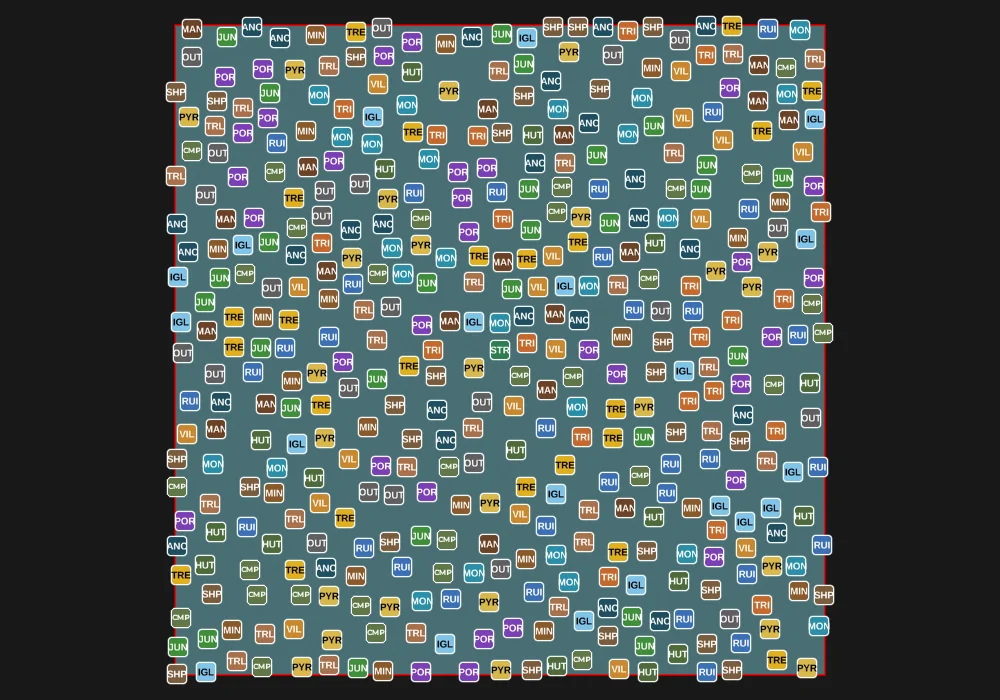
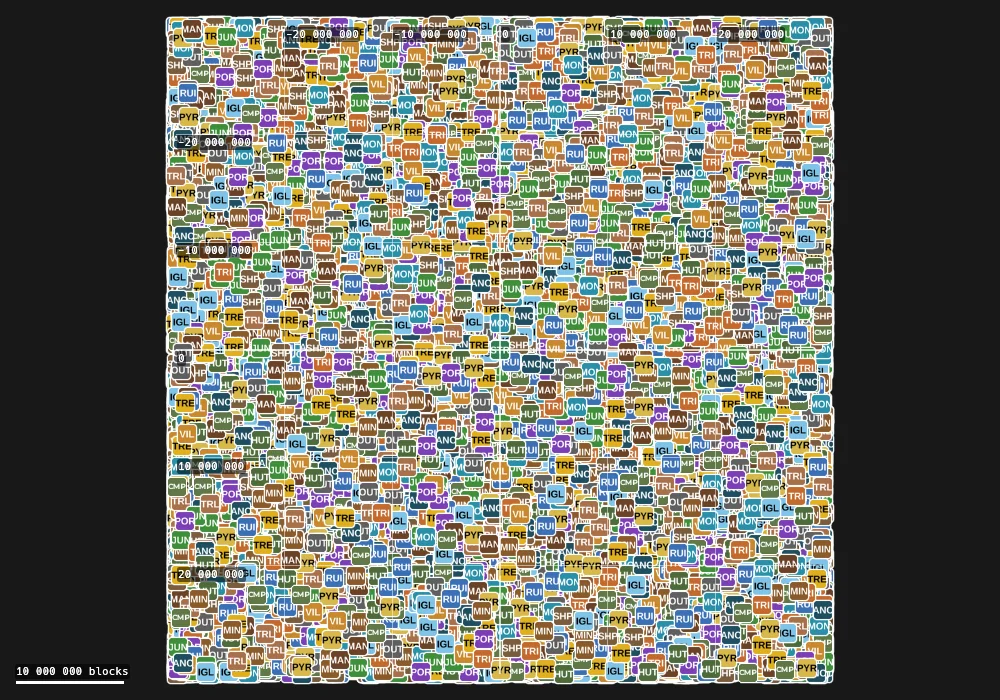
grid can be drawn over markers, samples in advanced, readme images and wording

diff --git a/src/gui/mod.rs b/src/gui/mod.rs
@@ -494,6 +494,7 @@ impl State {
                 Command::ZoomButtons(on) => ui.zoom_buttons_shown = on,
                 Command::ClearSearch => ui.queries.clear_search(),
                 Command::Grid(on) => ui.grid.enabled = on,
+                Command::GridOverMarkers(on) => ui.grid.over_markers = on,
                 Command::Search(what) => ui.script_search(&what),
                 _ => {}
             }
@@ -842,96 +843,105 @@ impl Ui {
             .default_open(!narrow)
             .default_pos(egui::pos2(8.0, 8.0))
             .max_width((screen.x - 16.0).min(360.0))
-            .show(root.ctx(), |ui| egui::ScrollArea::vertical().max_height(screen.y - 60.0).show(ui, |ui| {
-            egui::Grid::new("settings").num_columns(2).show(ui, |ui| {
-                ui.label("Seed").on_hover_text("A number, negative too, or any text like in Minecraft");
-                if ui.text_edit_singleline(&mut self.seed_text).changed()
-                    && let Some(seed) = parse_seed(&self.seed_text)
-                    && seed != self.seed
-                {
-                    self.seed = seed;
-                    self.biome_source = Arc::new(self.dimension.biome_source(seed));
-                    changed = true;
-                }
-                ui.end_row();
-                // text seeds become a number, show which
-                if self.seed_text.trim() != self.seed.to_string() {
-                    ui.label("");
-                    ui.weak(format!("= {}", self.seed));
-                    ui.end_row();
-                }
-
-                ui.label("Dimension");
-                egui::ComboBox::from_id_salt("dimension").selected_text(self.dimension.name()).show_ui(ui, |ui| {
-                    for dimension in Dimension::ALL {
-                        if ui.selectable_label(dimension == self.dimension, dimension.name()).clicked() && dimension != self.dimension {
-                            new_dimension = Some(dimension);
+            .show(root.ctx(), |ui| {
+                egui::ScrollArea::vertical().max_height(screen.y - 60.0).show(ui, |ui| {
+                    egui::Grid::new("settings").num_columns(2).show(ui, |ui| {
+                        ui.label("Seed")
+                            .on_hover_text("A number, negative too, or any text like in Minecraft");
+                        if ui.text_edit_singleline(&mut self.seed_text).changed()
+                            && let Some(seed) = parse_seed(&self.seed_text)
+                            && seed != self.seed
+                        {
+                            self.seed = seed;
+                            self.biome_source = Arc::new(self.dimension.biome_source(seed));
+                            changed = true;
                         }
-                    }
-                });
-                ui.end_row();
+                        ui.end_row();
+                        // text seeds become a number, show which
+                        if self.seed_text.trim() != self.seed.to_string() {
+                            ui.label("");
+                            ui.weak(format!("= {}", self.seed));
+                            ui.end_row();
+                        }
 
-                ui.label("Height (y)");
-                ui.add_enabled_ui(self.dimension != Dimension::End, |ui| {
-                    let range = if self.dimension == Dimension::Nether { 0..=128 } else { -64..=320 };
-                    changed |= ui.add(egui::Slider::new(&mut self.sample_height, range)).changed();
-                });
-                ui.end_row();
+                        ui.label("Dimension");
+                        egui::ComboBox::from_id_salt("dimension")
+                            .selected_text(self.dimension.name())
+                            .show_ui(ui, |ui| {
+                                for dimension in Dimension::ALL {
+                                    if ui
+                                        .selectable_label(dimension == self.dimension, dimension.name())
+                                        .clicked()
+                                        && dimension != self.dimension
+                                    {
+                                        new_dimension = Some(dimension);
+                                    }
+                                }
+                            });
+                        ui.end_row();
 
-                ui.label("Samples / pixel")
-                    .on_hover_text("Biome samples averaged per pixel and axis. Higher shows more of the real detail far out, but is slower");
-                ui.horizontal(|ui| {
-                    for n in [1u8, 2, 4, 8] {
-                        changed |= ui.selectable_value(&mut self.samples, n, format!("{}", n as u32 * n as u32)).changed();
-                    }
-                });
-                ui.end_row();
+                        ui.label("Height (y)");
+                        ui.add_enabled_ui(self.dimension != Dimension::End, |ui| {
+                            let range = if self.dimension == Dimension::Nether {
+                                0..=128
+                            } else {
+                                -64..=320
+                            };
+                            changed |= ui.add(egui::Slider::new(&mut self.sample_height, range)).changed();
+                        });
+                        ui.end_row();
 
-                ui.label("Go to (x z)");
-                ui.horizontal(|ui| {
-                    for v in &mut self.goto {
-                        let response = ui.add(egui::DragValue::new(v).speed(16.0).update_while_editing(false));
-                        go |= response.lost_focus() && ui.input(|i| i.key_pressed(egui::Key::Enter));
+                        ui.label("Go to (x z)");
+                        ui.horizontal(|ui| {
+                            for v in &mut self.goto {
+                                let response = ui.add(egui::DragValue::new(v).speed(16.0).update_while_editing(false));
+                                go |= response.lost_focus() && ui.input(|i| i.key_pressed(egui::Key::Enter));
+                            }
+                            go |= ui.button("Go").clicked();
+                        });
+                        ui.end_row();
+                    });
+                    ui.separator();
+
+                    let blocks_per_px = 4u64 << level;
+                    ui.label(format!(
+                        "Level {level}: 1 tile pixel = {blocks_per_px}x{blocks_per_px} blocks"
+                    ));
+                    if let Some(q) = self.map.hovered_quart {
+                        if self.hovered_biome.as_ref().is_none_or(|(at, _)| *at != q) {
+                            let biome = self
+                                .biome_source
+                                .chunk_sampler()
+                                .sample(q[0], self.sample_height >> 2, q[1]);
+                            self.hovered_biome = Some((q, biome.key.path.to_string()));
+                        }
+                        let height = self.hovered_height(q);
+                        let name = &self.hovered_biome.as_ref().unwrap().1;
+                        let height = height.map_or(String::new(), |y| format!(" y {y}"));
+                        ui.label(format!("x {} z {}{height}: {name}", q[0] * 4, q[1] * 4));
+                    } else {
+                        ui.label("");
                     }
-                    go |= ui.button("Go").clicked();
-                });
-                ui.end_row();
+                    let relief_tiles = self.tiles.pending_relief();
+                    ui.label(format!(
+                        "Generating: {} biome, {relief_tiles} height map tiles, {} structure areas",
+                        self.tiles.pending() - relief_tiles,
+                        self.queries.waiting()
+                    ));
+                    if !self.markers.is_empty() {
+                        ui.label(format!("{} markers", self.markers.len()));
+                    }
+                    ui.separator();
+                    self.structures_menu(ui);
+                    self.search_menu(ui);
+                    self.terrain_menu(ui, level);
+                    self.grid_menu(ui);
+                    self.performance_menu(ui);
+                    changed |= self.advanced_menu(ui);
+                    ui.checkbox(&mut self.zoom_buttons_shown, "Zoom buttons");
+                    self.license_notice(ui);
+                })
             });
-            ui.separator();
-
-            let blocks_per_px = 4u64 << level;
-            ui.label(format!("Level {level}: 1 tile pixel = {blocks_per_px}x{blocks_per_px} blocks"));
-            if let Some(q) = self.map.hovered_quart {
-                if self.hovered_biome.as_ref().is_none_or(|(at, _)| *at != q) {
-                    let biome = self.biome_source.chunk_sampler().sample(q[0], self.sample_height >> 2, q[1]);
-                    self.hovered_biome = Some((q, biome.key.path.to_string()));
-                }
-                let height = self.hovered_height(q);
-                let name = &self.hovered_biome.as_ref().unwrap().1;
-                let height = height.map_or(String::new(), |y| format!(" y {y}"));
-                ui.label(format!("x {} z {}{height}: {name}", q[0] * 4, q[1] * 4));
-            } else {
-                ui.label("");
-            }
-            let relief_tiles = self.tiles.pending_relief();
-            ui.label(format!(
-                "Generating: {} biome, {relief_tiles} height map tiles, {} structure areas",
-                self.tiles.pending() - relief_tiles,
-                self.queries.waiting()
-            ));
-            if !self.markers.is_empty() {
-                ui.label(format!("{} markers", self.markers.len()));
-            }
-            ui.separator();
-            self.structures_menu(ui);
-            self.search_menu(ui);
-            self.terrain_menu(ui, level);
-            self.grid_menu(ui);
-            self.performance_menu(ui);
-            self.advanced_menu(ui);
-            ui.checkbox(&mut self.zoom_buttons_shown, "Zoom buttons");
-            self.license_notice(ui);
-        }));
 
         if go {
             self.map.camera.center = [self.goto[0] as f64 / 4.0, self.goto[1] as f64 / 4.0];

diff --git a/src/gui/menus.rs b/src/gui/menus.rs
@@ -290,8 +290,20 @@ impl Ui {
         });
     }
 
-    pub(super) fn advanced_menu(&mut self, ui: &mut egui::Ui) {
+    /// Returns whether the tiles have to be generated anew.
+    pub(super) fn advanced_menu(&mut self, ui: &mut egui::Ui) -> bool {
+        let mut changed = false;
         egui::CollapsingHeader::new("Advanced").show(ui, |ui| {
+            ui.horizontal(|ui| {
+                ui.label("Samples / pixel").on_hover_text(
+                    "Biome samples averaged per pixel. Higher shows more of the real detail far out, but is much slower",
+                );
+                for n in [1u8, 2, 4, 8] {
+                    changed |= ui
+                        .selectable_value(&mut self.samples, n, format!("{}", n as u32 * n as u32))
+                        .changed();
+                }
+            });
             let advanced = &mut self.advanced;
             let row = |ui: &mut egui::Ui, name: &str, slider: egui::Slider, hint: &str| {
                 ui.horizontal(|ui| {
@@ -341,8 +353,11 @@ impl Ui {
             );
             if ui.button("Reset").clicked() {
                 *advanced = Advanced::default();
+                changed |= self.samples != 1;
+                self.samples = 1;
             }
         });
+        changed
     }
 
     /// The plus and minus keys zoom the map, like the zoom buttons, unless they are being typed. With
@@ -448,6 +463,7 @@ impl Ui {
                     });
                 }
                 ui.checkbox(&mut self.grid.labels, "Coordinates");
+                ui.checkbox(&mut self.grid.over_markers, "Over markers");
                 ui.horizontal(|ui| {
                     ui.label("Opacity");
                     ui.add(egui::Slider::new(&mut self.grid.opacity, 0.1..=1.0));

diff --git a/src/gui/script.rs b/src/gui/script.rs
@@ -9,6 +9,7 @@
 //! structure village      # show a kind of structure, or `all`, or `none`
 //! relief on              # terrain on the map (off to hide it)
 //! grid on                # the distance grid (off to hide it)
+//! grid_over_markers on   # draw it after the structure markers
 //! search village         # search for a kind of structure or a biome from the view center
 //! goto 1000 -500         # center the view on these block coordinates
 //! zoom 6                 # log2 of quarts per screen point, 0 = 1 quart per point
@@ -47,6 +48,7 @@ pub enum Command {
     ZoomButtons(bool),
     ClearSearch,
     Grid(bool),
+    GridOverMarkers(bool),
     Search(String),
     Goto(f64, f64),
     Zoom(f64),
@@ -104,6 +106,7 @@ impl Command {
             "sea_floor" => Command::SeaFloor(args.first() != Some(&"off")),
             "zoom_buttons" => Command::ZoomButtons(args.first() != Some(&"off")),
             "clear_search" => Command::ClearSearch,
+            "grid_over_markers" => Command::GridOverMarkers(args.first() != Some(&"off")),
             "grid" => Command::Grid(args.first() != Some(&"off")),
             "search" => Command::Search(args.first().context("search: for what")?.to_string()),
             "goto" => Command::Goto(num(0)?, num(1)?),

diff --git a/src/gui/overlays.rs b/src/gui/overlays.rs
@@ -201,6 +201,8 @@ pub struct Grid {
     pub custom_spacing: i64,
     pub labels: bool,
     pub opacity: f32,
+    /// drawn after the structure markers instead of before them
+    pub over_markers: bool,
 }
 
 impl Default for Grid {
@@ -211,6 +213,7 @@ impl Default for Grid {
             custom_spacing: 1000,
             labels: true,
             opacity: 0.5,
+            over_markers: false,
         }
     }
 }
@@ -267,11 +270,14 @@ impl Ui {
     /// Paints everything over the map, and asks for what is needed of it. `ui` covers the map.
     pub(super) fn show_overlays(&mut self, ui: &mut egui::Ui) {
         let rect = ui.max_rect();
-        if self.grid.enabled {
+        if self.grid.enabled && !self.grid.over_markers {
             self.paint_grid(ui, rect);
         }
         self.update_structures(ui.ctx(), rect);
         self.paint_markers(ui, rect);
+        if self.grid.enabled && self.grid.over_markers {
+            self.paint_grid(ui, rect);
+        }
         if self.zoom_buttons_shown {
             self.zoom_buttons(ui, rect);
         }

diff --git a/README.md b/README.md
@@ -25,11 +25,11 @@ cubes/boxes ... so it works in multiple ways I guess ...
 
 | Height map | Structures |
 |---|---|
-| ![The overworld with the height map and the settings window](docs/media/ui.webp) | ![Structure markers of all kinds on the overworld](docs/media/structures.webp) |
+| ![The overworld with the height map](docs/media/heightmap.webp) | ![Structure markers of all kinds on the overworld](docs/media/structures.webp) |
 | **The whole world** | **Distance grid** |
-| ![The whole 60 million block world with markers of every kind filling the space](docs/media/world.webp) | ![The height map with a grid of block coordinates](docs/media/grid.webp) |
+| ![The whole 60 million block world covered in markers of every kind under a distance grid](docs/media/world.webp) | ![The height map with a grid of block coordinates](docs/media/grid.webp) |
 | **Nether** | **End** |
-| ![The nether with fortresses and bastions](docs/media/nether.webp) | ![The end with end cities, those with a ship marked](docs/media/end.webp) |
+| ![The nether with fortresses and bastions](docs/media/nether.webp) | ![The end with end cities](docs/media/end.webp) |
 
 **The map**
 
@@ -45,8 +45,8 @@ cubes/boxes ... so it works in multiple ways I guess ...
 
 **Finding things**
 
-- **All structures in the game**, 23 kinds with their own icon and switch, even end cities with a ship. Positions come
-  from the game's real generation code, including biome and terrain checks.
+- **All structures in the game**, each with its own icon and switch. Positions come from the game's real generation
+  code, including biome and terrain checks.
 - **At every zoom:** close up all of them, far out a steady number of real ones that fills the screen. You choose the
   space between markers, or let them overlap and set how many to show. Rare kinds come first if you like.
 - **Search** for the nearest structures or biomes from the middle of the view.
@@ -57,8 +57,7 @@ cubes/boxes ... so it works in multiple ways I guess ...
 
 - **Fast:** everything is generated in the background on all cores, centre first, with quick previews while you zoom.
   How many threads and how much memory it may use is up to you.
-- **Runs in the browser** too, through web workers, with pinch to zoom and a text bar for the on screen keyboard on
-  touch screens. On iPhones and iPads, tap the bar to open the keyboard.
+- **Runs in the browser** too, through web workers, with pinch to zoom and an on screen keyboard on touch screens.
 - **Image export** from the command line.
 
 ## Download

diff --git a/CHANGELOG.md b/CHANGELOG.md
@@ -8,6 +8,14 @@ The release workflow publishes the section of a version as its release notes.
 
 ## [Unreleased]
 
+### Added
+
+- The distance grid can be drawn over the structure markers.
+
+### Changed
+
+- Samples per pixel moved to the Advanced menu.
+
 ## [0.3.0] - 2026-10-31
 
 ### Added
